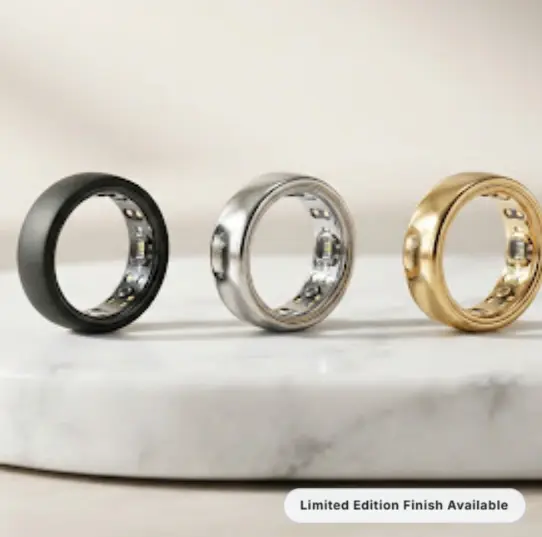
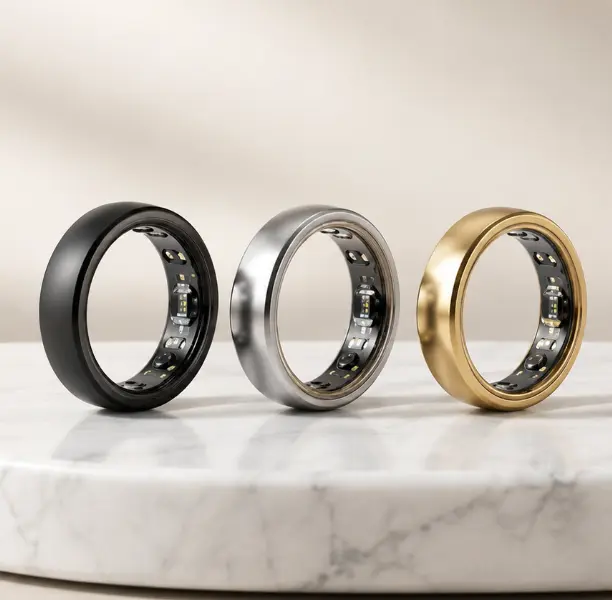
feat: change all pic

diff --git a/src/components/layout/navbar.tsx b/src/components/layout/navbar.tsx
@@ -1,6 +1,7 @@
 import React, { useState } from 'react';
 import { useStore } from '../../store/useStore';
 import { Menu, X, Heart, ShoppingBag, Sun, Moon, Trash2 } from 'lucide-react';
+import logoImg from '../../assets/logo/logo.webp'
 
 export const Navbar: React.FC = () => {
   const { wishlist, cart, theme, toggleWishlist, toggleTheme, removeFromCart, clearCart } = useStore();
@@ -21,10 +22,13 @@ export const Navbar: React.FC = () => {
   return (
     <>
       <nav className="sticky top-0 z-40 w-full backdrop-blur-md bg-white/75 dark:bg-slate-900/75 border-b border-slate-100 dark:border-slate-800 transition-colors duration-300">
-        <div className="max-w-300 mx-auto px-6 h-16 flex items-center justify-between">
-          {/* Logo */}
+        <div className="max-w-300 mx-auto h-16 flex items-center justify-between">
           <div className="flex items-center gap-2 cursor-pointer" onClick={() => scrollToSection('hero')}>
-            <span className="w-4.5 h-4.5 rounded-full bg-[#004ac6] dark:text-blue-400" />
+            <img 
+              src={logoImg}
+              alt="AuraRing Logo" 
+              className="w-12 h-12" 
+            />
             <span className="font-bold text-lg text-slate-800 dark:text-white tracking-tight">
               AuraRing X
             </span>